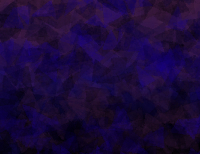
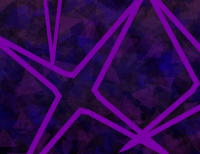
change text-bg

diff --git a/src/app/reflection-font/reflection-font.component.scss b/src/app/reflection-font/reflection-font.component.scss
@@ -8,7 +8,7 @@
   /* original design */
   .units > * {
     font: bolder 5rem/5rem "EB Garamond";
-    background-image: url("/assets/images/text-bg.jpg?v=2");
+    background-image: url("/assets/images/text-bg.jpg?v=5");
     background-clip: text;
     color: transparent;
     overflow: hidden;
